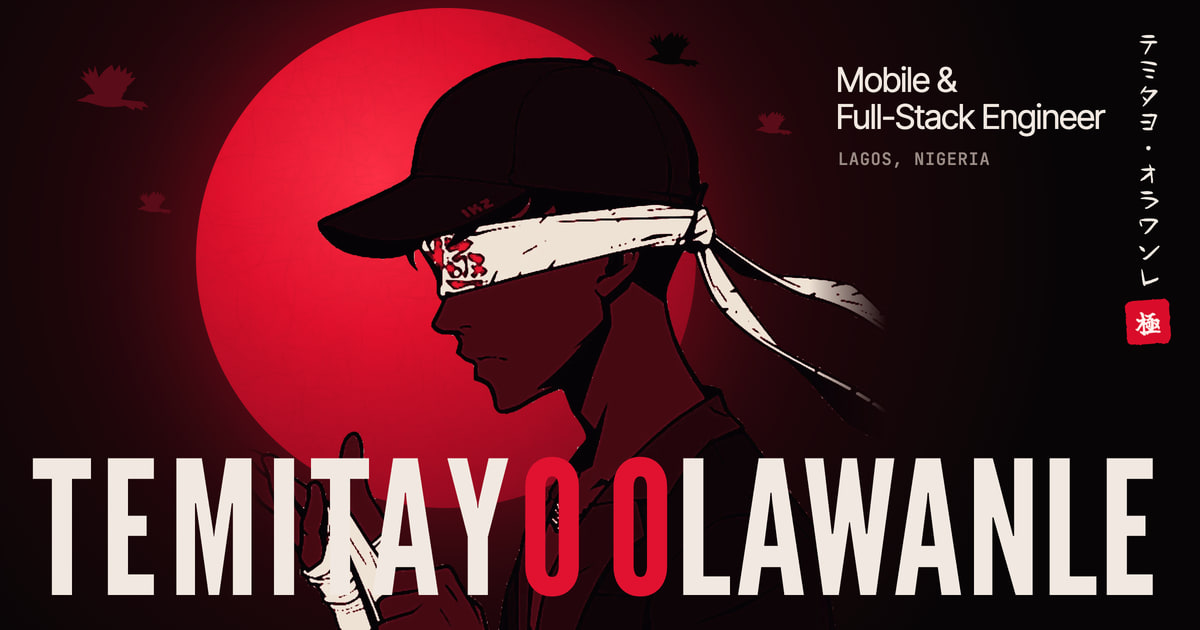
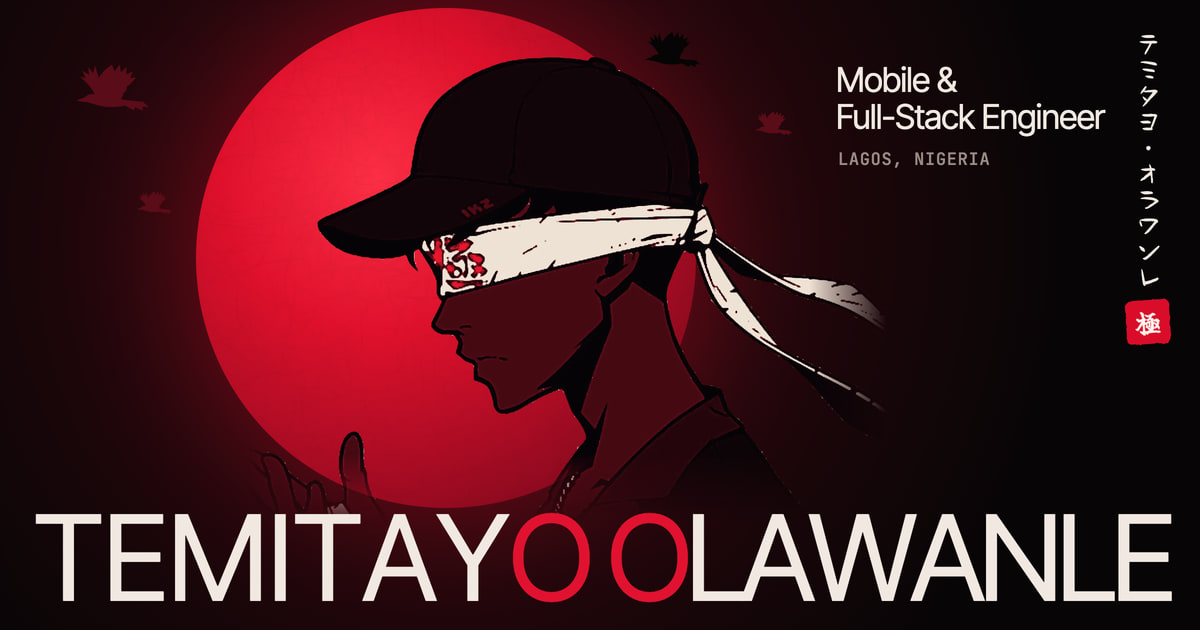
Put Tsuki back on Inter Tight
League Gothic didn't sit right, so Tsuki's headings return to the sans the
site started with. It runs much wider, so the name is sized off the surname
to go margin to margin, and the first name opens up to match its length.

On desktop the hand now fades out above the name, where pale letters were
landing on the pale bandage, and the moon shrinks a little to stay clear of
the red O. The share image is redrawn to match and the font is gone.

Changed region(s): [[0.0, 0.7238, 0.9867, 1.0]]

diff --git a/src/app/looks.css b/src/app/looks.css
@@ -284,7 +284,7 @@
   --tag-x: 72vw;
   --tag-y: 17svh;
   --tag-w: min(19rem, 22vw);
-  --chip-y: calc(14.4vw + 1.25rem);
+  --chip-y: calc(9.6vw + 1.25rem);
 }
 
 /* The inversion: for one passage the world turns red and the ink turns black. */
@@ -303,32 +303,29 @@
   --font-jp: var(--font-yuji);
 }
 
-/* A film poster's title: tall, narrow and all one colour but for the O's. */
-[data-look='tsuki'] .display {
-  font-family: var(--font-poster), sans-serif;
-  letter-spacing: 0.012em;
-}
-
+/* Sized off the surname, the wider half, so it runs margin to margin. */
 [data-look='tsuki'] [data-wordmark] .display {
-  font-size: 29.3vw;
-  line-height: 0.92;
+  font-size: calc((100vw - 2.5rem) / 4.75);
 }
 
-/* Spaced to match the wider surname, so both halves come out the same length. */
+/* Opened up to match, so both halves come out the same length. */
 [data-look='tsuki'] .name-first {
-  letter-spacing: 0.041em;
+  letter-spacing: -0.0075em;
 }
 
 @media (min-width: 768px) {
   [data-look='tsuki'] [data-wordmark] .display {
-    font-size: 15.3vw;
-    line-height: 1;
+    font-size: calc((98.8vw - 4rem) / 9.5);
   }
-}
 
-/* Taller than the sans it replaces, so the carousel's title keeps clear of the heading. */
-[data-look='tsuki'] .display[class*='27vw'] {
-  font-size: 25vw;
+  /* The hand fades out above the name, so pale letters never land on the pale bandage. */
+  [data-look='tsuki'] .look-stage [data-portrait-inner] {
+    --foot: linear-gradient(to top, transparent calc(10vw + 1.25rem), #000 calc(19vw + 1.25rem));
+    -webkit-mask-image: var(--sides), var(--foot);
+    -webkit-mask-composite: source-in;
+    mask-image: var(--sides), var(--foot);
+    mask-composite: intersect;
+  }
 }
 
 .moon {

diff --git a/src/components/ui/home/Hero.tsx b/src/components/ui/home/Hero.tsx
@@ -88,7 +88,7 @@ const HeroSection = ({ projectCount }: { projectCount: number }) => {
       <div aria-hidden className="pointer-events-none absolute inset-0 hidden md:block">
         <div className="sticky top-0 h-[100svh] overflow-x-clip">
           <div data-moon-rise className="only-tsuki absolute inset-0">
-            <div data-moon className="moon top-[3%] left-[37%] w-[min(88vh,62vw)] -translate-x-1/2" />
+            <div data-moon className="moon top-[3%] left-[37%] w-[min(83vh,62vw)] -translate-x-1/2" />
           </div>
           <div className="only-kiwami speed-lines" />
           <div className="only-sumi absolute top-[3%] left-[59%] aspect-square h-[76svh] -translate-x-1/2">
@@ -110,7 +110,7 @@ const HeroSection = ({ projectCount }: { projectCount: number }) => {
       <div data-first-screen className="relative flex min-h-[88svh] flex-col md:min-h-[100svh]">
         {/* Phones have no pinned stage, so the first screen carries each look's art. */}
         <div aria-hidden className="look-only absolute inset-0 overflow-x-clip md:hidden">
-          <div className="only-tsuki moon bottom-[calc(50vw+2.5rem)] left-1/2 w-[min(84vw,calc(88svh-50vw-13.5rem))] -translate-x-1/2" />
+          <div className="only-tsuki moon bottom-[calc(34vw+2.5rem)] left-1/2 w-[min(84vw,calc(88svh-34vw-13.5rem))] -translate-x-1/2" />
           <div className="only-kiwami speed-lines" />
           <div className="only-sumi absolute bottom-[calc(30vw+3.5rem)] left-1/2 aspect-square w-[min(72vw,38svh)] -translate-x-1/2">
             <Backdrop />

diff --git a/src/app/look-fonts.css b/src/app/look-fonts.css
@@ -1,12 +1,11 @@
 /* Written by scripts/fonts.mjs. Japanese fonts cut down to the characters the site uses,
-   so each look costs one small file. Yuji Boku, Shippori Mincho, Dela Gothic One and
-   League Gothic are under the SIL Open Font License 1.1.
+   so each look costs one small file. Yuji Boku, Shippori Mincho and Dela Gothic One
+   are under the SIL Open Font License 1.1.
    Characters: オタテホミムヨラレワン・ー介作先品墨己月極紹絡自連 */
 :root {
   --font-yuji: 'Look Boku';
   --font-shippori: 'Look Mincho';
   --font-dela: 'Look Gothic';
-  --font-poster: 'Look Poster';
 }
 
 @font-face {
@@ -28,11 +27,4 @@
   font-weight: 400;
   font-display: swap;
   src: url('/fonts/gothic.woff2') format('woff2');
-}
-
-@font-face {
-  font-family: 'Look Poster';
-  font-weight: 400;
-  font-display: swap;
-  src: url('/fonts/poster.woff2') format('woff2');
 }
